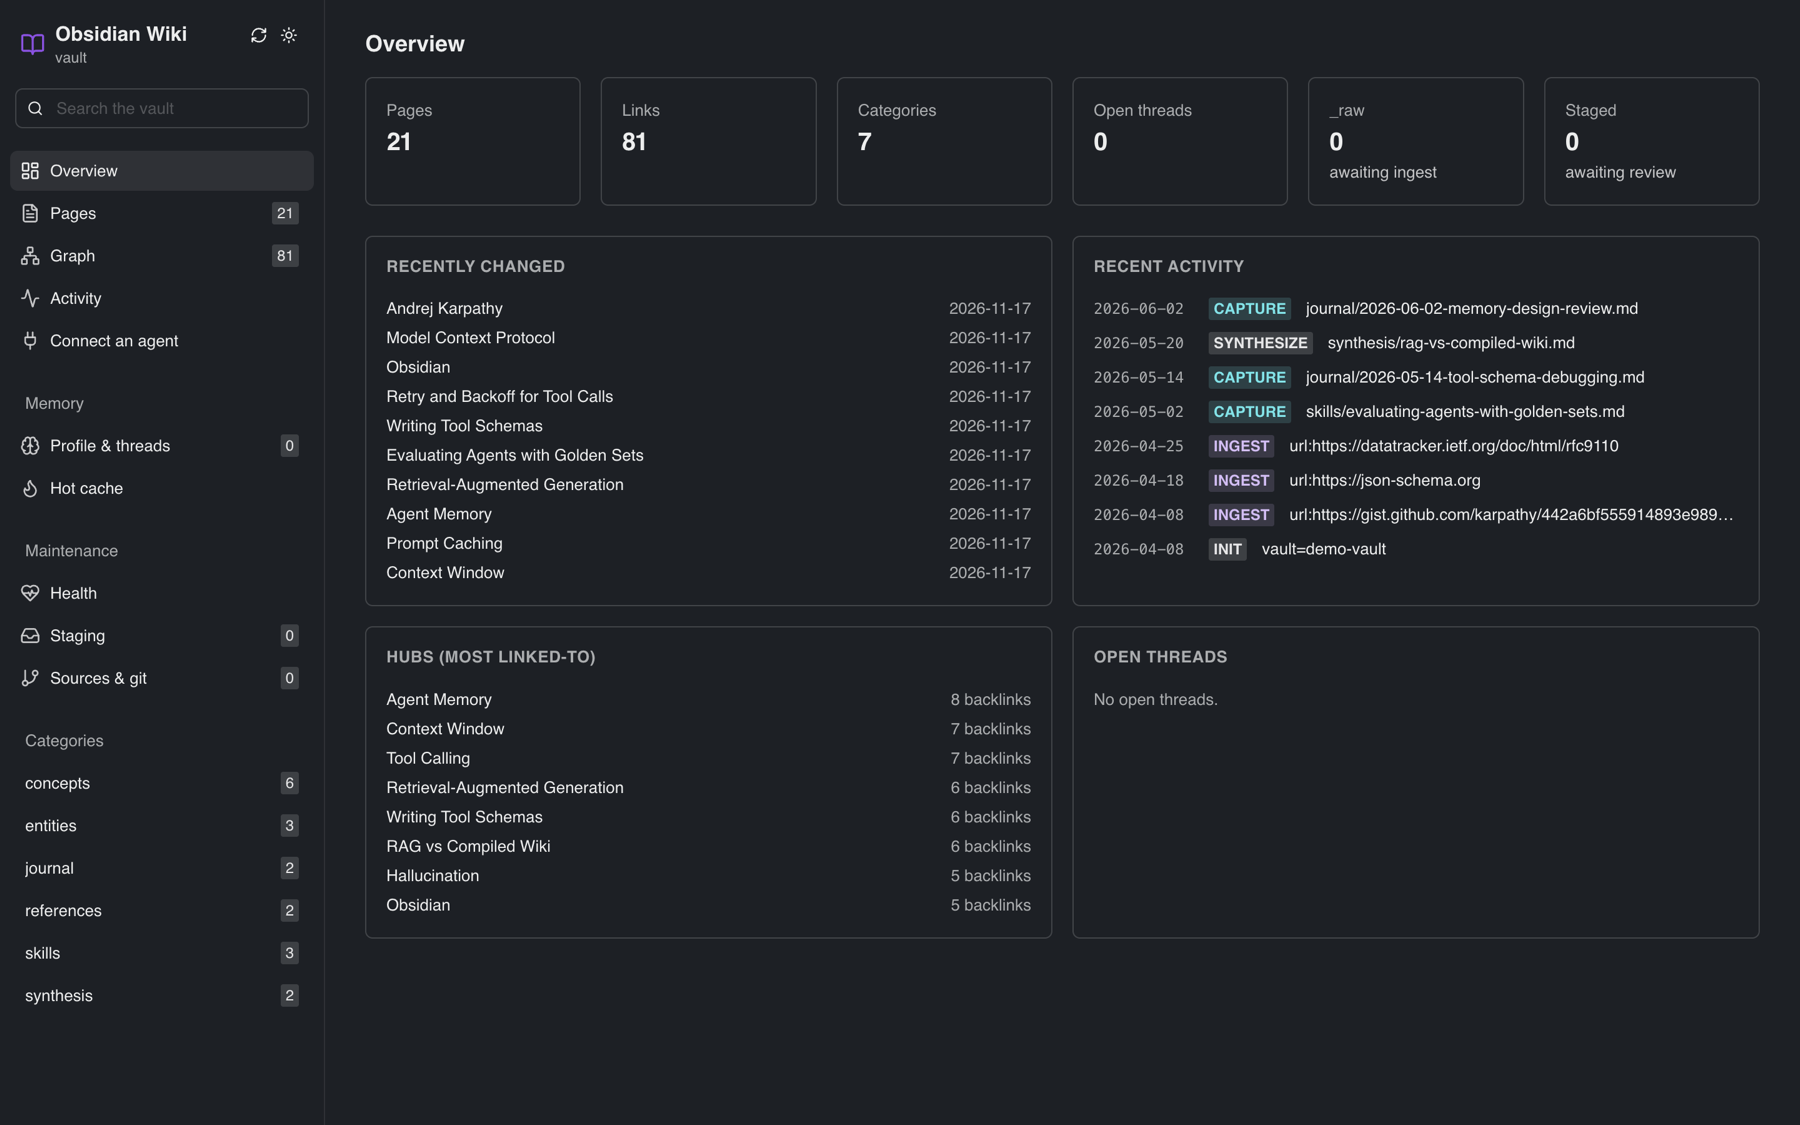
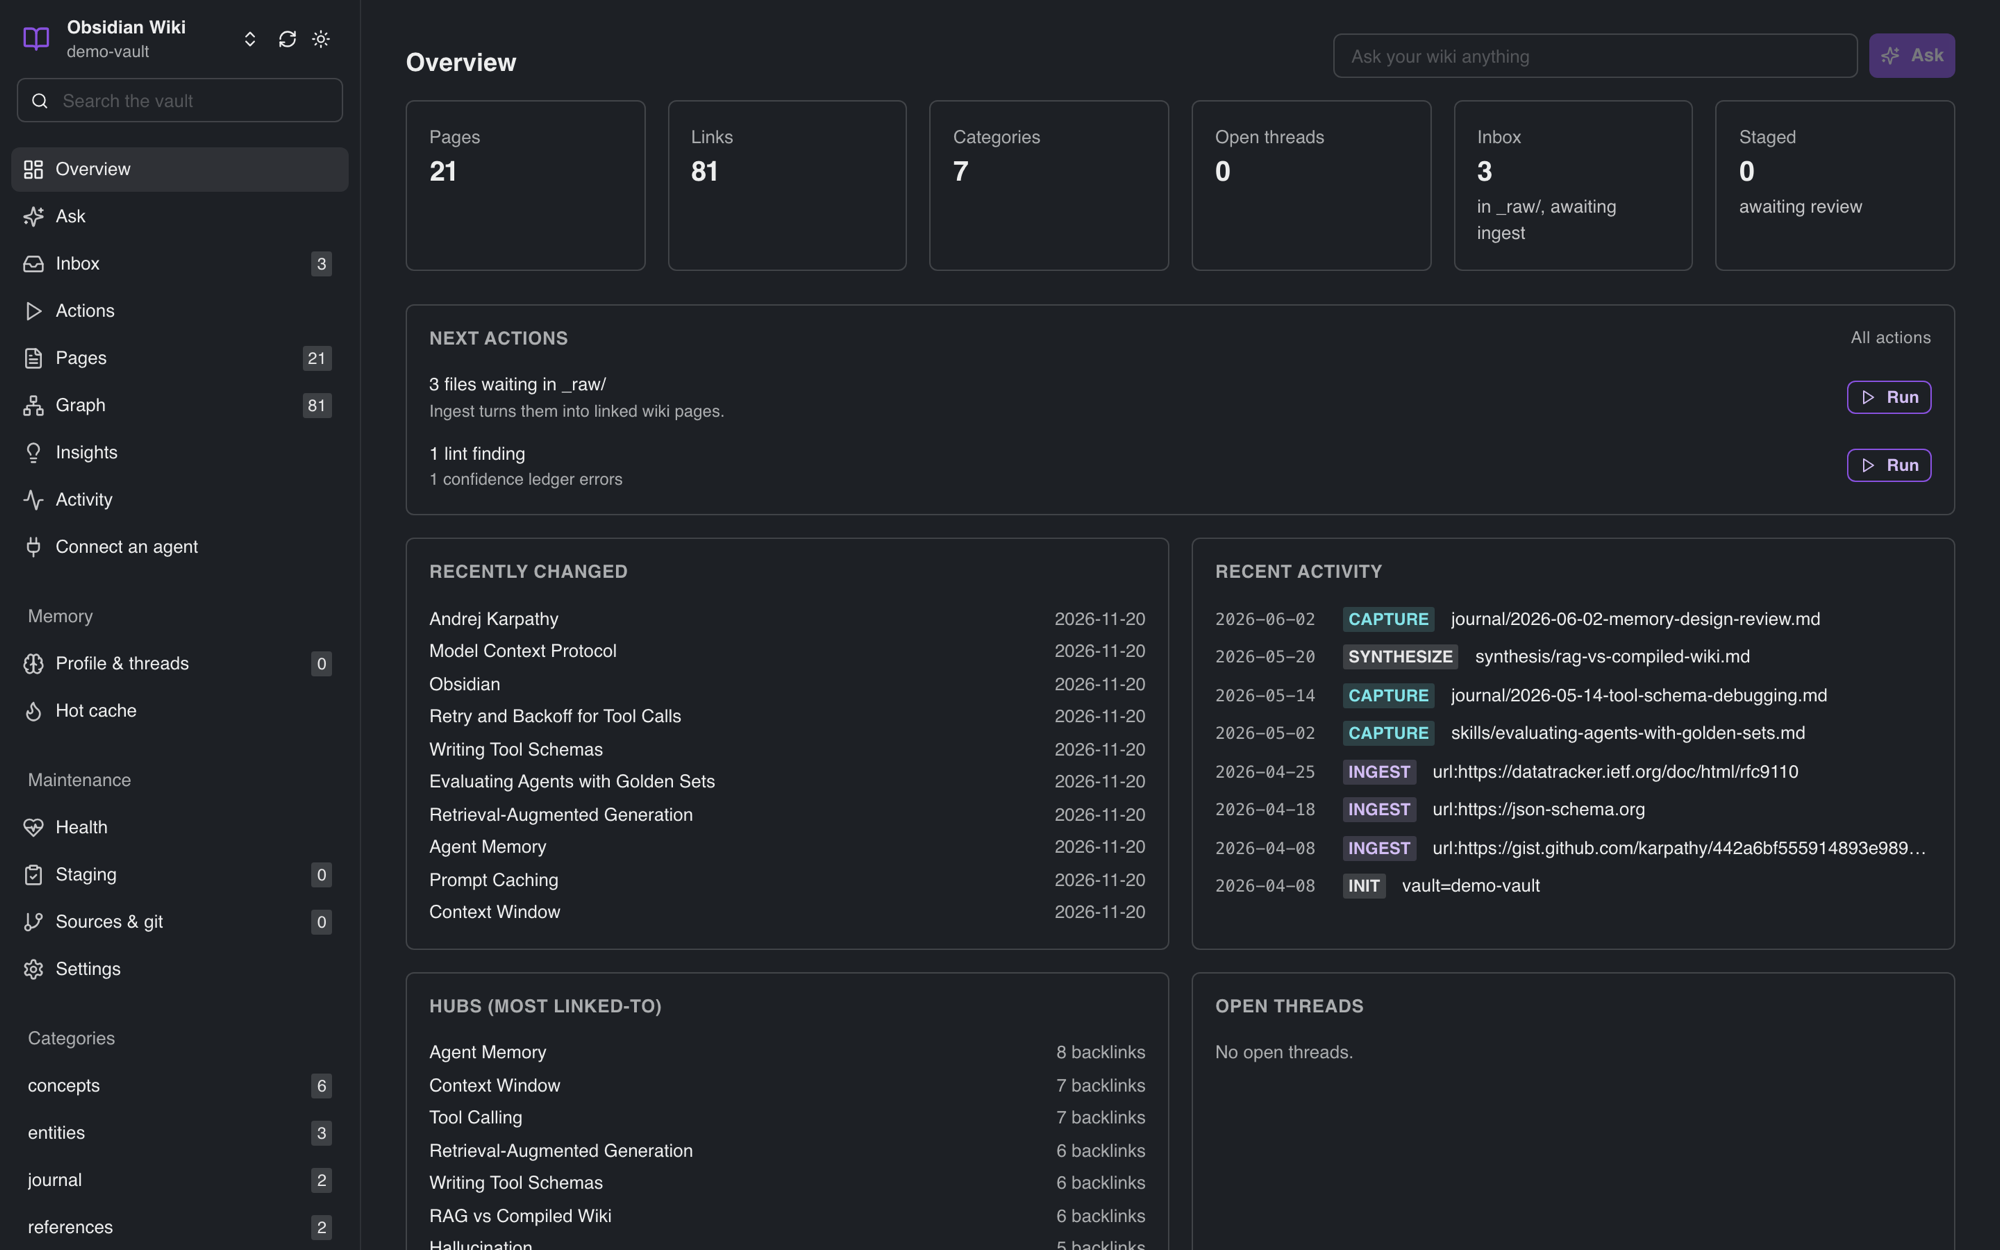
docs(readme): replace the AI hero image and cropped terminal gif with real viewer screenshots
assets/hero.png was a generated crystal with a stale tagline and install
hint; assets/demo.gif was a clipped terminal on a striped backdrop. The
README now opens on a real Ask answer from the sample vault and shows
the viewer's new Ask, Inbox, Actions, Insights and vault switcher.
Screenshots are retaken on examples/demo-vault, in dark mode, with
placeholder paths on the Connect page. README_TW.md mirrors the change.

diff --git a/README.md b/README.md
@@ -16,11 +16,8 @@
 </p>
 
 <p align="center">
-  <img width="768" alt="obsidian-wiki" src="assets/hero.png" />
-</p>
-
-<p align="center">
-  <img width="768" alt="obsidian-wiki CLI: query, lint and context-pack on a demo vault" src="assets/demo.gif" />
+  <img width="900" alt="obsidian-wiki web viewer: Ask answers a question from the vault with cited page links" src="https://github.com/Ar9av/obsidian-wiki/blob/main/docs/images/ui-ask.png?raw=true" />
+  <br><sub>Ask: a cited answer from the sample vault, in the local web viewer.</sub>
 </p>
 
 <p align="center">
@@ -84,6 +81,8 @@ Other paths — `git clone`, Claude Code plugin, Skills CLI, multiple vaults →
 /wiki-history-ingest claude         # mine everything you've ever asked Claude
 ```
 
+No terminal handy? Drop files, paste notes or add links in the [web viewer's Inbox](#work-in-your-browser). They wait in `_raw/` for the next ingest.
+
 **Ask it.** Answers come back with `[[wikilink]]` citations, not vibes.
 
 ```text
@@ -122,7 +121,7 @@ Want to look before you build? [`examples/demo-vault/`](https://github.com/Ar9av
 
 Or export the whole graph to `graph.json`, GraphML (Gephi/yEd), Neo4j Cypher, Postgres SQL, or a self-contained interactive `graph.html`.
 
-## Browse it in your browser
+## Work in your browser
 
 No Obsidian needed. The vault comes with a local web viewer:
 
@@ -131,15 +130,27 @@ pip install 'obsidian-wiki[server]'   # Python 3.10+
 obsidian-wiki ui                      # opens http://127.0.0.1:3114/ui
 ```
 
-It shows an overview, search, rendered pages with backlinks and properties, the link graph, the activity log, your profile and open threads, the hot cache, and vault health. It listens on loopback only. Use `--vault` to choose a vault and `--port` to change the port.
+It's more than a reader:
 
-<p align="center">
-  <img width="900" alt="obsidian-wiki web viewer: overview" src="https://github.com/Ar9av/obsidian-wiki/blob/main/docs/images/ui-overview.png?raw=true" />
-</p>
+- **Ask.** Answers come from your own pages, cited, with a "Worth adding" list of the gaps it hit. Turn on web search to fill them. It runs on your Claude subscription through Claude Code, or on an Anthropic API key you save in Settings. The relevant excerpts go to the model you pick, and nothing else leaves your machine.
+- **Inbox.** Drop files anywhere, paste a note or a screenshot, add a link. Everything waits in `_raw/` until the next ingest, or hit **Ingest now**.
+- **Actions.** What needs doing next (unsorted files, lint findings, stale threads), with one-click runs of ingest, lint, cross-linker, synthesize and digest.
+- **Insights.** Hubs, bridges, clusters and blind spots in your link graph, plus questions worth asking about them.
+- **Vault switcher.** Jump between the vaults you set up with `/wiki-switch`.
+- And the reading side: search, rendered pages with backlinks and properties, the graph, activity, profile and open threads, the hot cache, and vault health.
 
-<p align="center">
-  <img width="900" alt="obsidian-wiki web viewer: a rendered page with backlinks" src="https://github.com/Ar9av/obsidian-wiki/blob/main/docs/images/ui-page.png?raw=true" />
-</p>
+It listens on loopback only. Use `--vault` to choose a vault and `--port` to change the port.
+
+<table>
+  <tr>
+    <td><img width="440" alt="obsidian-wiki web viewer: overview with next actions" src="https://github.com/Ar9av/obsidian-wiki/blob/main/docs/images/ui-overview.png?raw=true" /></td>
+    <td><img width="440" alt="obsidian-wiki web viewer: inbox" src="https://github.com/Ar9av/obsidian-wiki/blob/main/docs/images/ui-inbox.png?raw=true" /></td>
+  </tr>
+  <tr>
+    <td><img width="440" alt="obsidian-wiki web viewer: insights" src="https://github.com/Ar9av/obsidian-wiki/blob/main/docs/images/ui-insights.png?raw=true" /></td>
+    <td><img width="440" alt="obsidian-wiki web viewer: a rendered page with backlinks" src="https://github.com/Ar9av/obsidian-wiki/blob/main/docs/images/ui-page.png?raw=true" /></td>
+  </tr>
+</table>
 
 **Connect any agent to it.** Open **Connect an agent** in the sidebar:
 
